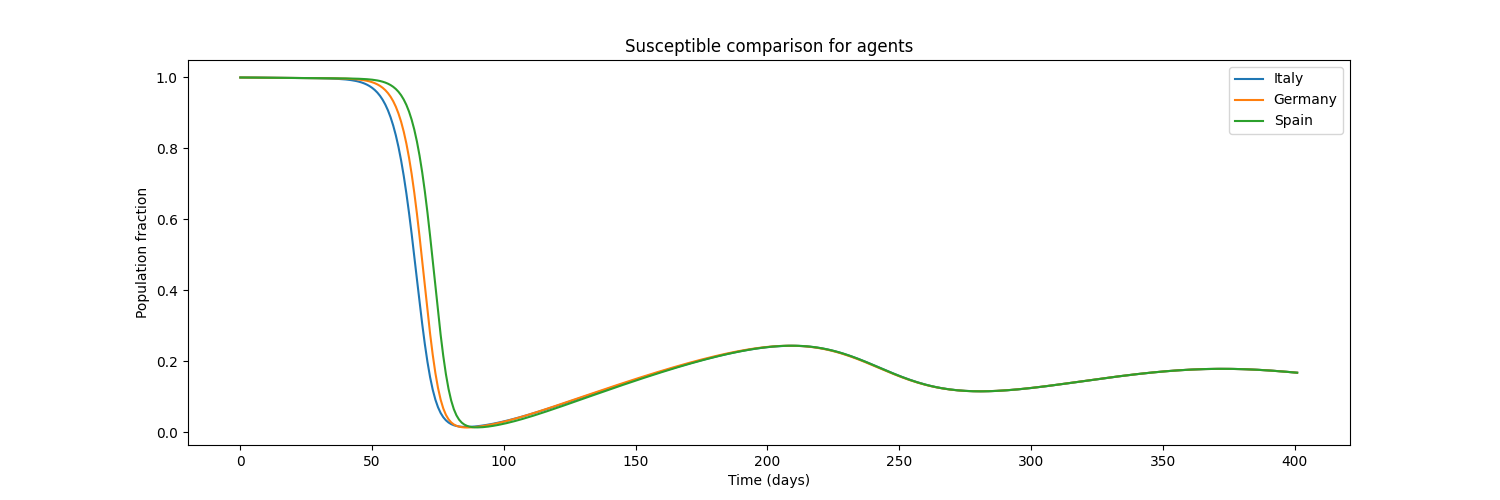
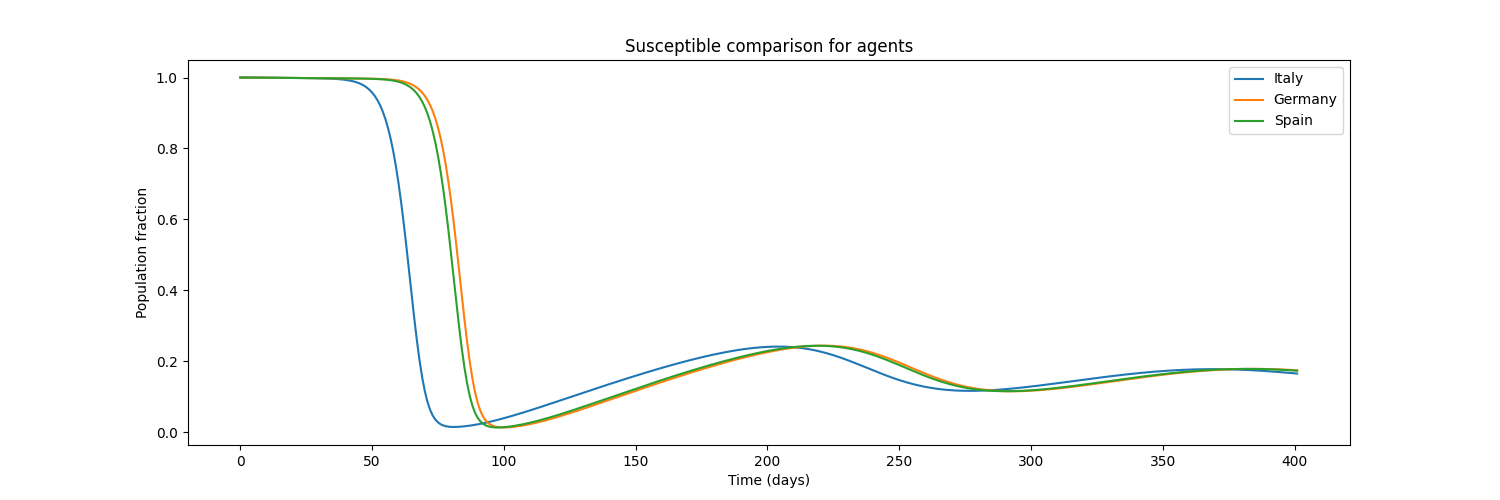
implemented aviation data usage in model

Changed region(s): [[0.2147, 0.15, 0.8587, 0.87]]

diff --git a/main.py b/main.py
@@ -23,7 +23,6 @@ parser.add_argument('--cont_params', type=check_file, default='contact_settings.
 parser.add_argument('--economy_params', type=check_file, default='economy_settings.json',
                     help='JSON file with settings of outer model')
 
-
 args = parser.parse_args()
 
 # Loading agents from JSON file
@@ -75,27 +74,20 @@ loss=np.zeros((len(agents),2))
 for i in range(settings['iterations']):
 
 	for agent in agents:
-	    
-		agents[agent].interact([agents.get(key) for key in connections[agent]], settings['pop_migration'])
 
-		#if settings['economy'] == True:
-			#new_loss=[loss[idx][-1]+ calc_loss_GDP(agents[agent], i, *economy_params.values(), alpha=0.2)]
-			#np.append(loss[idx][:], new_loss)
+		if settings['fixed_migration']:
+	    
+			agents[agent].interact([agents.get(key) for key in connections[agent]], settings['pop_migration'])
+
+		else:
+			avia_data=load_JSON('Aviation/json_data.json')
+
+			agents[agent].interact([agents.get(key) for key in connections[agent]], avia_data[agent])
 
 	for agent in agents:
 
-		#if settings['economy'] == True:
-
-			#print(agents[agent].state.loss)
-			#new_loss = agents[agent].state.loss+ calc_loss_GDP(agents[agent], i, *economy_params.values(), alpha=0.2)
-			
-
 		agents[agent].set_state(agents[agent].next_state(i))
 
-
-
-		
-#print(agents['Italy'].history)
 
 if settings['age_group']==True:
 

diff --git a/nation.py b/nation.py
@@ -8,19 +8,33 @@ class Nation(Agent):
 
 	def interact(self, conn_agents, value):
 
-		migration= self.state.N * value
+		if type(value) is not dict:
 
-		self.emigrate(migration)
+			migration = self.state.N * value
 
-		for agent in conn_agents:
+			self.emigrate(migration)
 
-			new_state_agent = agent.immigrate(self, migration/len(conn_agents))
+			for agent in conn_agents:
 
+				new_state_agent = agent.immigrate(self, migration/len(conn_agents))
 
-			agent.replace_state(new_state_agent)
+				agent.replace_state(new_state_agent)
 
+			return self, conn_agents
 
-		return self,conn_agents
+		else:
+
+			for agent in conn_agents:
+
+				migration = int(value[agent.name].get('departures')/365)
+
+				self.emigrate(migration)
+
+				new_state_agent = agent.immigrate(self, migration)
+
+				agent.replace_state(new_state_agent)
+
+			return self, conn_agents
 
 	
 	def next_state(self, t):

diff --git a/agent.py b/agent.py
@@ -49,9 +49,7 @@ class Agent(ABC):
 
 		new_state= State(self.state.set_value('-',value), *self.state.SEAIRDV)
 
-
 		self.replace_state(new_state)
-
 
 		return self
 
